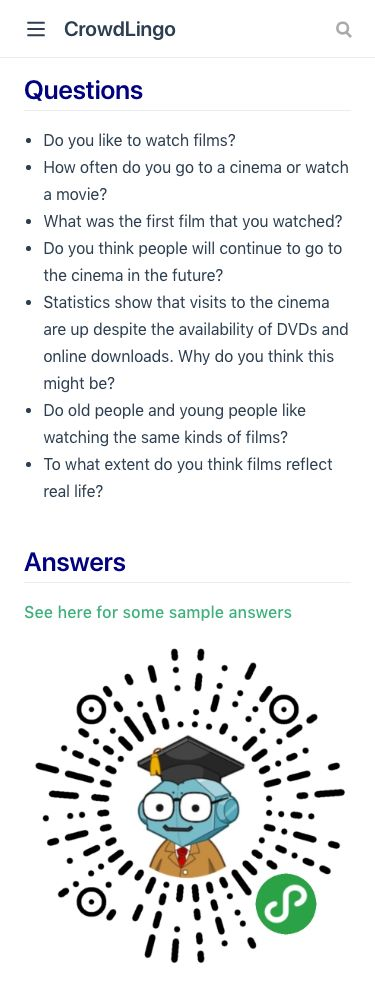
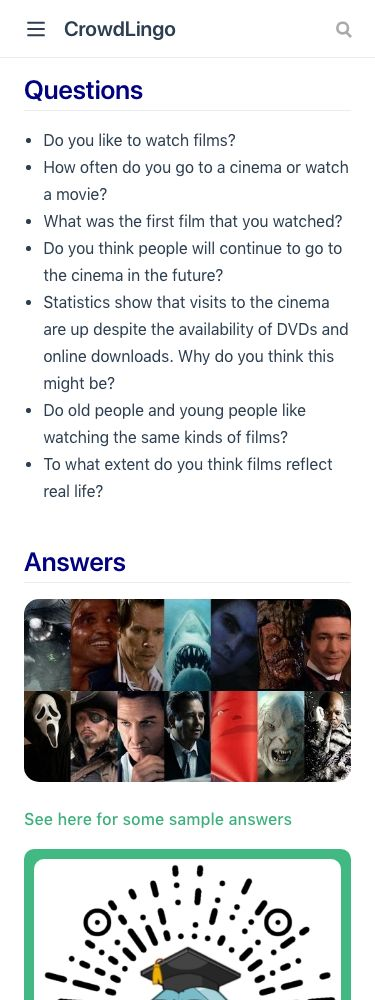
screen shots too

Changed region(s): [[0.0587, 0.589, 0.9387, 1.0]]

diff --git a/shotter/main.js b/shotter/main.js
@@ -5,14 +5,14 @@ let log = console.log
 
 const pages = [
   'movies',
-  // 'free-time'
+  'free-time'
 ]
 
 const sections = [
-  ['intro', 2500],
+  ['full', 2500],
   ['vocabulary', 1000],
   ['questions', 1000],
-  ['answers', 500]
+  ['answers', 800]
 ]
 
 async function main() {
@@ -28,7 +28,7 @@ async function main() {
         height: height
       }
 
-      if (name === 'intro') {
+      if (name === 'full') {
         opts.height = 2500
         opts.fullPage = true
       }

diff --git a/src/speaking/free-time.md b/src/speaking/free-time.md
@@ -62,7 +62,7 @@ How to describe
 
 
 
-## Vocab
+## Vocabulary
 
 <vocab-box></vocab-box>
 
@@ -82,6 +82,7 @@ How to describe
   - Some people do not have any leisure activity. Why is that the case?
 
 ## Answers
+<qrfooter></qrfooter>
 
 ### sport
 
